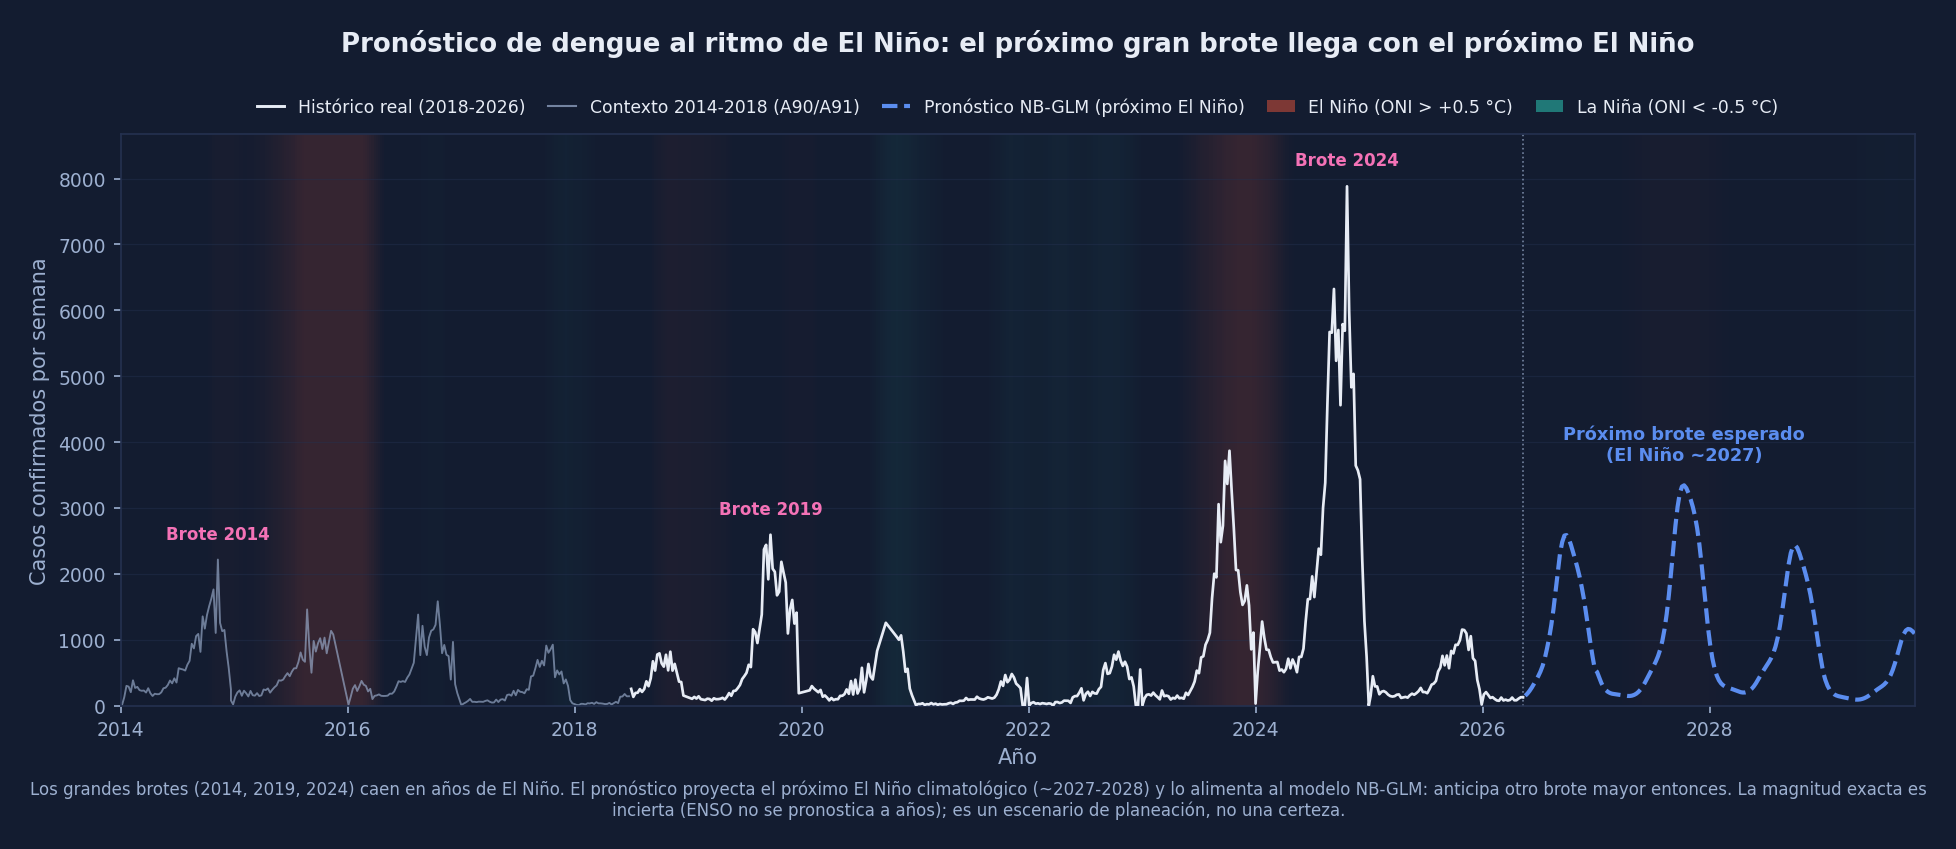
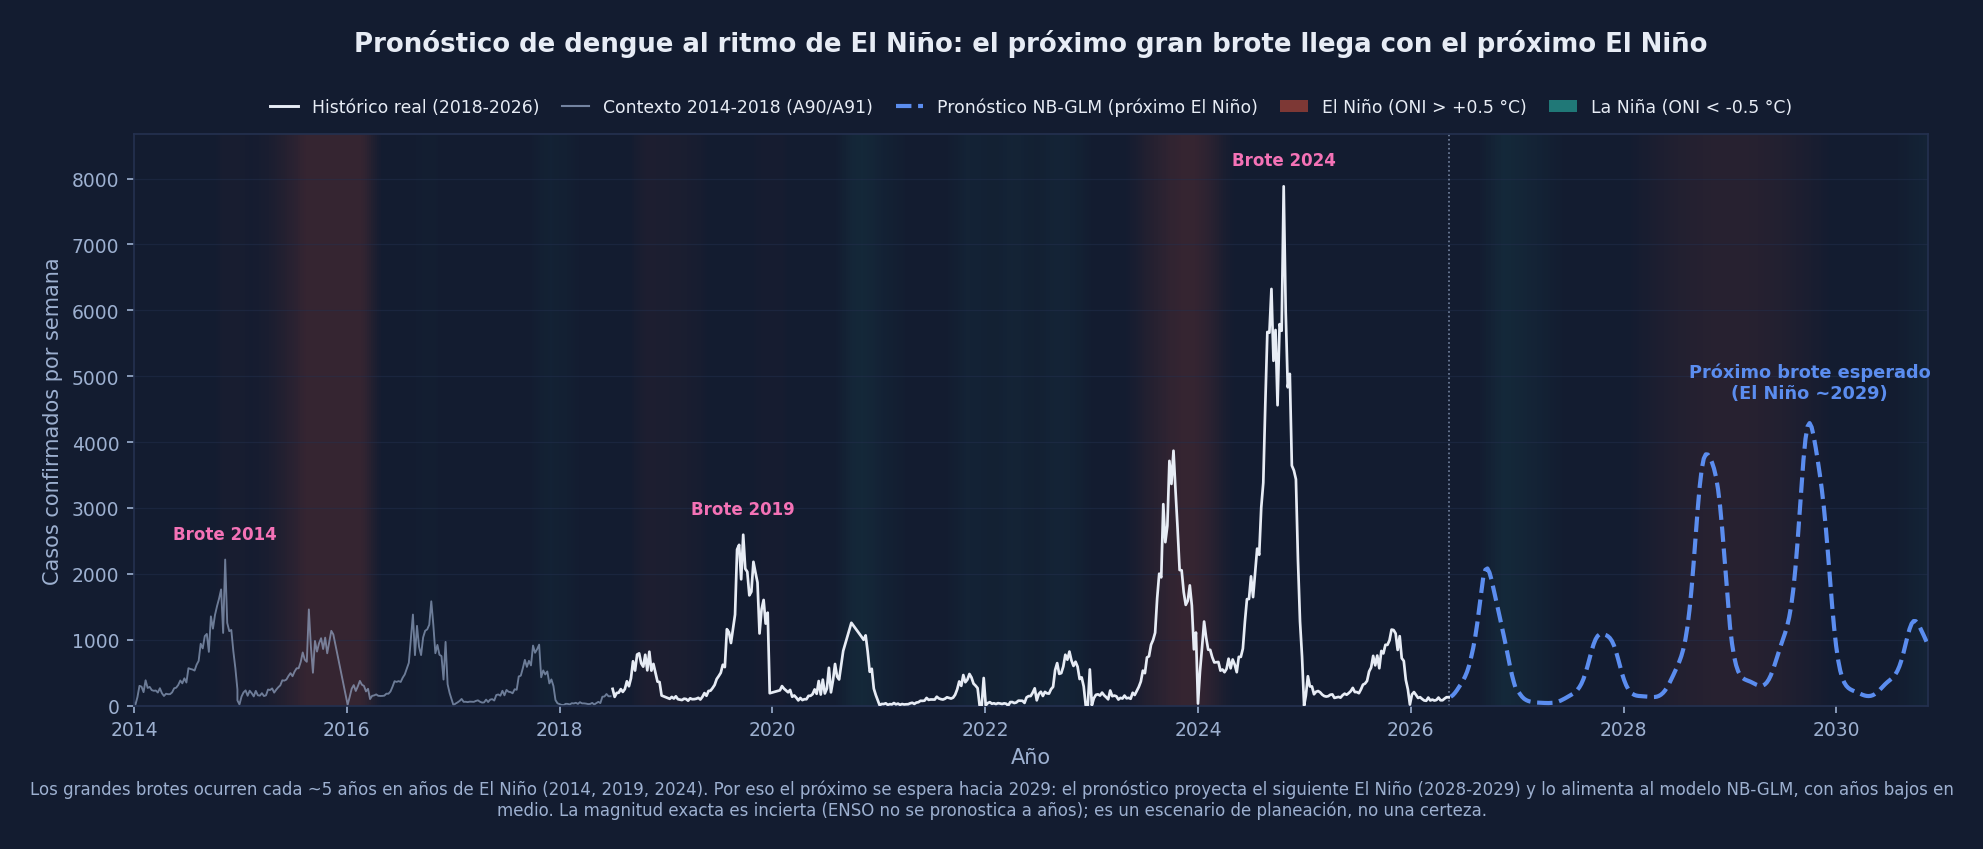
fix(dengue-web): proximo brote en 2029 (ciclo ~5 anios) + textos actualizados

diff --git a/dengue.html b/dengue.html
@@ -413,14 +413,14 @@
       </div>
 
       <div class="chart-card" style="margin-top:1.4rem">
-        <img src="Reports/dengue/dengue_pronostico_nino.png" alt="Pronóstico de dengue nacional 2014-2030 en escala lineal (año vs casos por semana), con los periodos de El Niño y La Niña sombreados; el pronóstico anticipa el próximo gran brote hacia 2027 con el próximo El Niño." loading="lazy" />
-        <div class="cap">Serie nacional 2014-2026 (real) y pronóstico al ritmo de El Niño. Eje: año (X) y casos por semana (Y), escala lineal. Las franjas rojas marcan El Niño y las verdes La Niña: los grandes brotes (2014, 2019, 2024) caen en años cálidos. El pronóstico (azul punteado) proyecta el próximo El Niño climatológico (~2027-2028) y anticipa otro brote mayor entonces. La magnitud exacta es incierta: es un escenario de planeación, no una certeza.</div>
+        <img src="Reports/dengue/dengue_pronostico_nino.png" alt="Pronóstico de dengue nacional 2014-2030 en escala lineal (año vs casos por semana), con los periodos de El Niño y La Niña sombreados; el pronóstico anticipa el próximo gran brote hacia 2029 con el próximo El Niño." loading="lazy" />
+        <div class="cap">Serie nacional 2014-2026 (real) y pronóstico al ritmo de El Niño. Eje: año (X) y casos por semana (Y), escala lineal. Las franjas rojas marcan El Niño y las verdes La Niña. Como los grandes brotes ocurren cada ~5 años en años de El Niño (2014, 2019, 2024), el próximo se espera hacia <strong>2029</strong>: el pronóstico (azul punteado) proyecta ese El Niño (2028-2029) y anticipa el brote, con años bajos en medio. La magnitud exacta es incierta: es un escenario de planeación, no una certeza.</div>
       </div>
 
       <div class="callout">
         <h3>Cómo pronosticamos: al ritmo de El Niño</h3>
         <p style="margin-bottom:.6rem">El dengue tiene un ciclo epidémico de <strong>aproximadamente cuatro a cinco años</strong> (los grandes brotes de 2014, 2019 y 2024), ligado al fenómeno de <strong>El Niño</strong>. Esa señal no vive en los conteos recientes, así que un modelo que solo mire el pasado de los casos no puede anticipar el próximo gran brote. Por eso el motor <strong>NB-GLM</strong> incorpora el índice de El Niño (ONI) como variable: aprende cuánto amplifica el clima la transmisión.</p>
-        <p style="margin:0; font-size:.9rem; color:var(--text-muted)">Para el futuro proyectamos el <strong>próximo El Niño climatológico</strong> (el ciclo ENSO apunta a un nuevo evento hacia <strong>2027-2028</strong>) y se lo damos al modelo: así el pronóstico (azul punteado) <strong>anticipa el próximo gran brote alineado con ese El Niño</strong>, con años bajos en medio, en vez de repetir una temporada plana. El horizonte de magnitud <em>precisa</em> sigue siendo 1 año; más allá, lo que mostramos es el <em>momento</em> esperado del próximo brote (el <em>cuándo</em>), no su tamaño exacto: ENSO no se pronostica con certeza a varios años. Es una guía de planeación, no una predicción cerrada.</p>
+        <p style="margin:0; font-size:.9rem; color:var(--text-muted)">Para el futuro proyectamos el <strong>próximo El Niño</strong>. Como los grandes brotes ocurren cada <strong>~5 años</strong> en años de El Niño (2014, 2019, 2024), el próximo se espera hacia <strong>2029</strong> (2024 + 5), con El Niño desarrollándose en 2028-2029. Se lo damos al modelo: así el pronóstico (azul punteado) <strong>anticipa el próximo gran brote en 2029 alineado con ese El Niño</strong>, con años bajos en medio, en vez de repetir una temporada plana. El horizonte de magnitud <em>precisa</em> sigue siendo 1 año; más allá, lo que mostramos es el <em>momento</em> esperado del próximo brote (el <em>cuándo</em>), no su tamaño exacto: ENSO no se pronostica con certeza a varios años. Es una guía de planeación, no una predicción cerrada.</p>
       </div>
     </div>
   </section>
